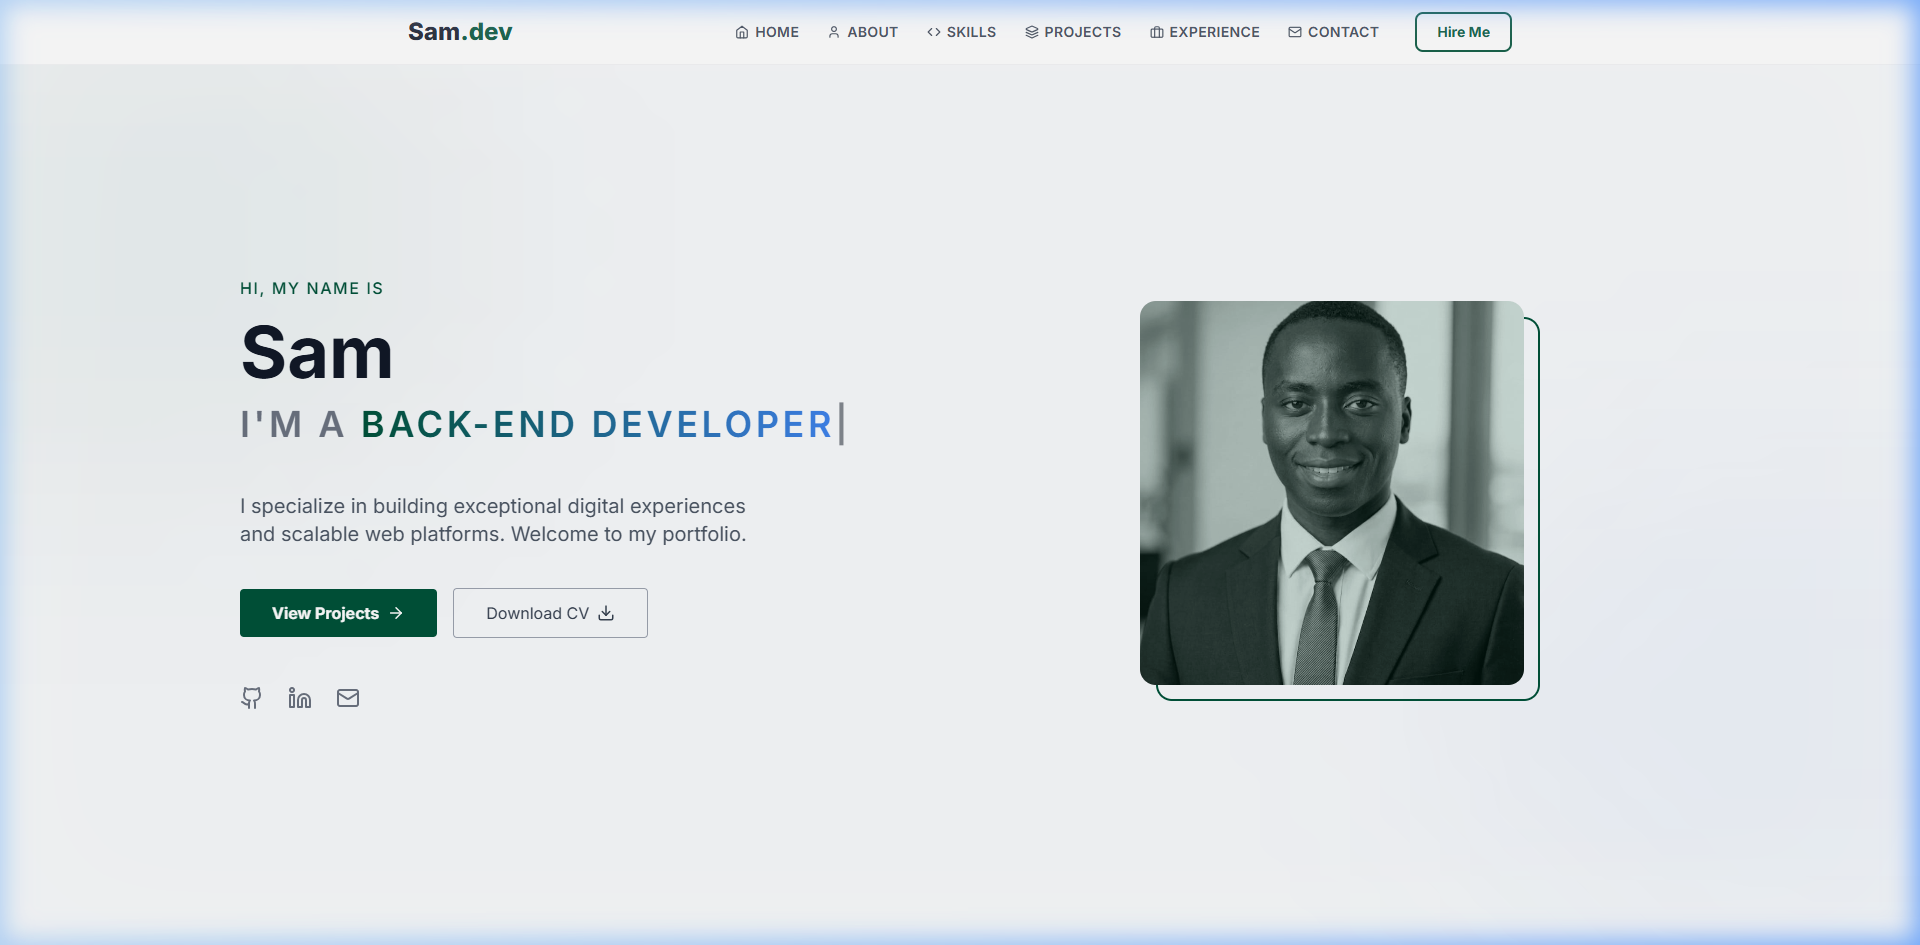
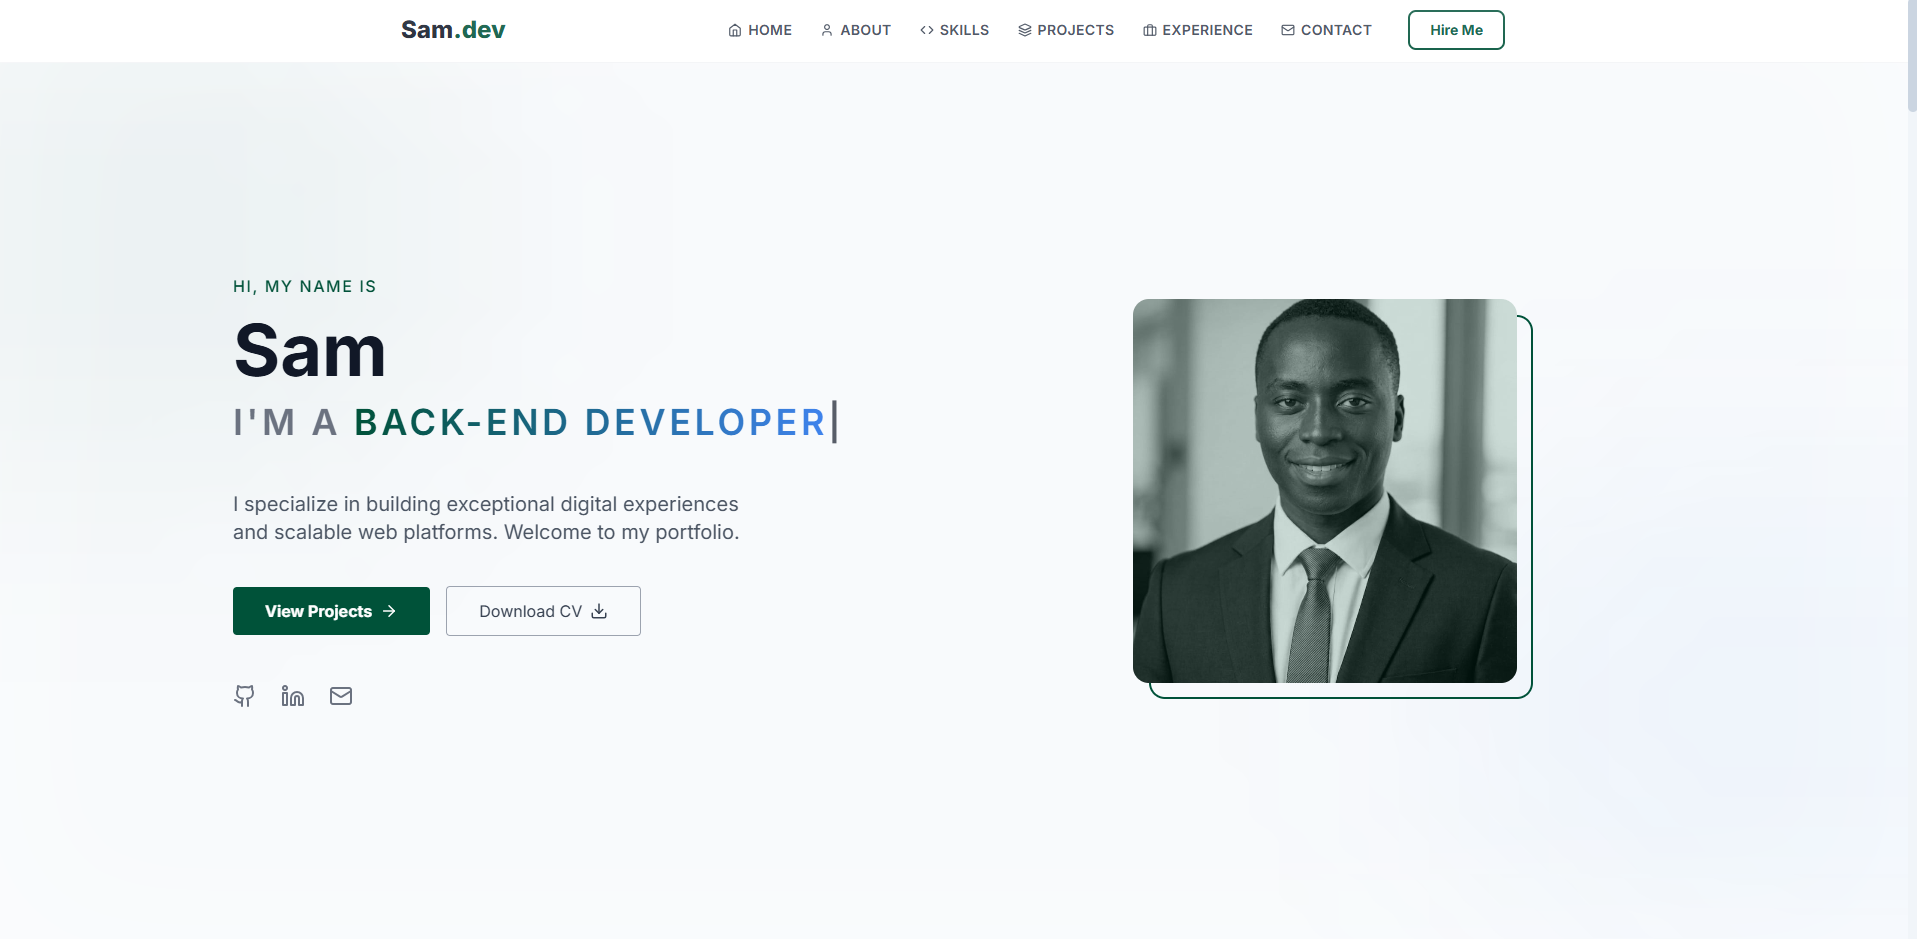
style: add refined border and shadow to project screenshots

diff --git a/src/components/Projects.jsx b/src/components/Projects.jsx
@@ -69,9 +69,9 @@ const Projects = () => {
               className={`flex flex-col md:flex-row gap-8 items-center ${idx % 2 !== 0 ? 'md:flex-row-reverse' : ''}`}
             >
               {/* Project Image */}
-              <div className="w-full md:w-3/5 aspect-video relative group overflow-hidden rounded-xl shadow-lg">
-                <div className="absolute inset-0 bg-gray-100 flex items-center justify-center">
-                  <span className="text-gray-400 font-mono text-sm">{project.title}</span>
+              <div className="w-full md:w-3/5 aspect-video relative group overflow-hidden rounded-xl shadow-2xl shadow-gray-200 border border-gray-100">
+                <div className="absolute inset-0 bg-gray-50 flex items-center justify-center">
+                  <span className="text-gray-300 font-mono text-sm">{project.title}</span>
                 </div>
                 {project.image_url && (
                   <img
